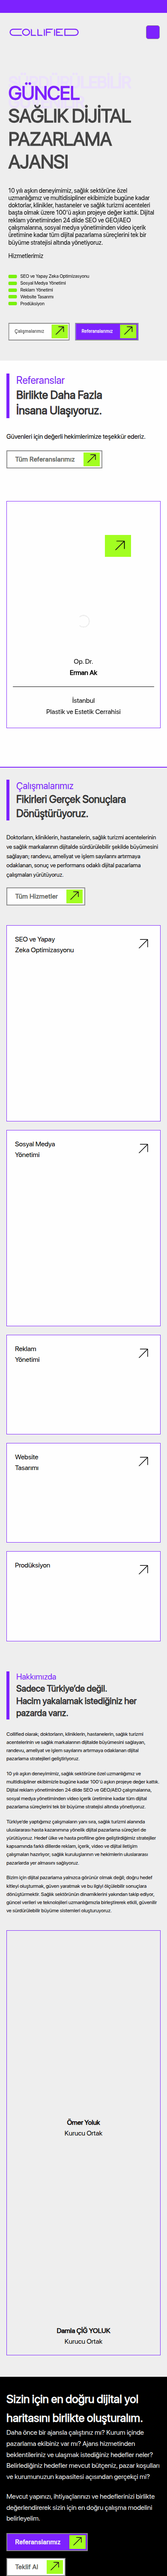
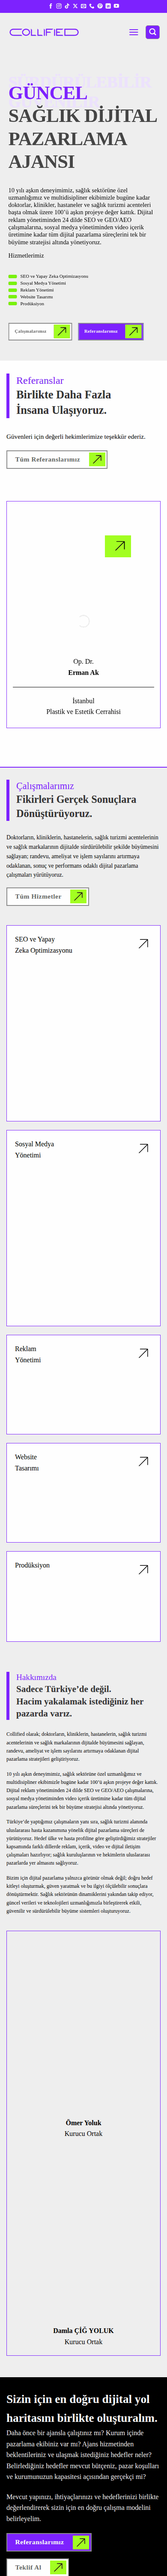
Rakipler: Collified ve Proji SS, yeni ajans notları (ara kayıt)
Claude-Session: https://claude.ai/code/session_014vX4uSoxRs7RX5MTd8Gf4r

diff --git a/ajans/arastirma/rakipler/ajanslar/webtures.md b/ajans/arastirma/rakipler/ajanslar/webtures.md
@@ -1,0 +1,90 @@
+# Webtures
+
+- **Ülke / şehir:** Türkiye / İstanbul (Esentepe Mah. Milangaz Cad. No:77 A2 Blok Kat:32-33 D:219, Kartal) + Birleşik Krallık / Londra (494a Fulham Road, SW6 5NH; Webtures Ltd, şirket no. 11948574)
+- **Web:** https://www.webtures.com/ (varsayılan sürüm İngilizce; Türkçe sürüm https://www.webtures.com/tr/)
+- **Instagram:** https://www.instagram.com/webtures/
+- **Diğer sosyal:** Facebook: https://www.facebook.com/webtures/ | LinkedIn: https://www.linkedin.com/company/webtures/ | TikTok: bulunamadı | YouTube: https://www.youtube.com/@Webturescom | X: https://x.com/webtures | Spotify (Webtures Talks podcast): https://open.spotify.com/show/0p47rU8DXS3pXaBYSxBBrg | LinkedIn bülteni "Pazarlama Trendi"
+- **Kuruluş / ekip büyüklüğü (biliniyorsa):** 2011, kurucu/CEO Kaan Gülten (kaynak: https://www.webtures.com/about-us/). Sayfa JSON-LD verisinde `numberOfEmployees: 34`. Aynı sitede "120+ Active Brands", "15yrs Operations", "6 cont. Reach"; referanslar sayfasında "5,000+ Brands we have worked with". Teknoloji platformu "Brantial" Webtures Ltd tarafından işletiliyor.
+- **Hedef müşteri:** Kurumsal/enterprise markalar (banka, sigorta, hastane zinciri, ev aletleri, otomotiv yan sanayi, mücevher, e-ticaret). Sebep: hero alt metninde "We make enterprise brands the preferred choice", logo şeridi İş Bankası, Garanti BBVA, Acıbadem, Memorial, Electrolux, Pınar, Akçansa, Çelebi, Anadolu Sigorta; JSON-LD'de `priceRange: "$$$"`. Restoran/klinik/butik gibi küçük işletmeye yönelik sayfa ya da fiyat yok.
+
+## Hizmetler
+- Generative Engine Optimization (GEO): ChatGPT, Gemini, Perplexity, Google AI Overviews yanıtlarında görünürlük
+- SI-First SEO (klasik SEO'yu yapay zeka cevap motorlarının okuyabileceği yapıya çevirme; schema, entity, passage-level içerik)
+- Visibility Intelligence (SI + klasik arama görünürlük ölçümü, rakip kıyası)
+- SI Agent Readiness (ücretsiz analiz; nav'da "189-point checklist")
+- Citation Optimization, Online Reputation Management, SI Visibility for Local Business
+- Agentic Commerce Readiness (ürün verisi, feed, sipariş akışı)
+- SI & Agentic Analytics, Google Analytics 4, Analytics Architecture (GA4 + sGTM + BigQuery + Looker)
+- Kurumsal SI Eğitimi (rol bazlı ekip eğitimi, 90 gün ölçüm)
+- Google Ads yönetimi (Search, Performance Max, Shopping), Meta & TikTok reklamları, ChatGPT Ads yönetimi, Generative Engine Advertising
+- Sektör raporları (perakende, üretim, finans, seyahat, sağlık, enerji vb.), kitaplar, podcast, Webtures Akademi (ücretsiz eğitim), staj kampı
+
+## Paketler ve fiyatlar
+| Paket | Kapsam | Fiyat | Not |
+|---|---|---|---|
+| Hizmetlerin tamamı | Her hizmette 4 "deliverable" listesi (ör. GEO: Entity & Knowledge Graph map, passage-level rewrite, haftalık SI citation tracker, LLM-ready schema) | Fiyat açıklanmıyor; teklif/formla | kaynak: https://www.webtures.com/ ("Explore all services" bölümü) |
+| Ücretsiz SI görünürlük analizi | "Your readiness score in 60 seconds" | Ücretsiz | kaynak: ana sayfa hero CTA "Analysis in 60 Seconds" |
+| Strateji görüşmesi | "Free 30-minute call", "30 minutes · free · no commitment" | Ücretsiz | kaynak: ana sayfa alt CTA "Book a strategy call" |
+
+Fiyat hiçbir sayfada yok (ana sayfa, TR sürüm, /contact/ ve /about-us/ tarandı; tek ipucu JSON-LD `priceRange: "$$$"`). Teklif yöntemi: https://www.webtures.com/contact/ formu (Name, Phone, Email, Website, Message + KVKK onay kutusu), telefon +90 216 599 04 95 (hafta içi 10:00-18:00), hello@webtures.com ("Reply within 1-2 business days"), ücretsiz 30 dk strateji görüşmesi ve ücretsiz analiz aracı.
+
+## Site yapısı (ana sayfa, yukarıdan aşağıya sırayla)
+SS `ss/webtures-web.png` ilk 6000 px'te kesilmiş (1440x6000); 1-8 SS'den doğrulandı, 9 ve sonrası kaynak HTML'den (curl) alındı.
+1. Hero: başlık "Be the brand people and SI prefer." ("people and SI" turuncu), alt metin "Your customers now ask ChatGPT before they search Google, and if your brand is not in the answer you are not an option. We make enterprise brands the preferred choice across search, ads and SI answers."; sağda iki metrik kartı ("400%+ Growth in SI-sourced traffic, Blue Diamond: last 3 months versus the same period a year earlier" ve "5x Electrolux: citations across generative SI answers"); CTA "Analysis in 60 Seconds" (turuncu buton); görsel türü: koyu tema, mini grafik/veri kartları, fotoğraf yok
+2. "Brands growing with us" logo şeridi (İş Bankası, Garanti BBVA, Acıbadem, Akçansa, Çelebi, Anadolu Sigorta, Memorial, Electrolux, Pınar, Paket Taxi, İnci Akü, Kiğılı), kayan
+3. "We read the market with data." — 7 sektör raporu kartı (Agentic Commerce Readiness Report, SI in retail and e-commerce, manufacturing, finance and banking, travel and hospitality, healthcare, energy), "Human / Machine" geçiş anahtarı, "All reports" linki
+4. "Data-driven digital growth stories." — 5 vaka kartı: Blue Diamond ("SI-Sourced Traffic Up 400.8%"), İş Bankası ("1,860% Growth In New Users From SI Platforms"), Electrolux ("SI Citations Up 428.9%"), Memorial ("SI Search Citation Visibility Went From Zero To 10,500"), Anadolu Sigorta ("SI Citations Up 100.5%"); "Explore the case", "More case studies"
+5. "Benefit from end-to-end digital marketing expertise" — 6 kartlı yatay slider: AEO & SI Visibility Audit, GEO & SI Search Strategy, SI Content Engine, Paid Visibility Layer, Authority & Expansion, Continuous Optimization
+6. "Outcome-focused growth." — 4 sayaç: 145%+ organik nitelikli trafik büyümesi, 85%+ ilk sayfa görünürlüğü, 75%+ arama kaynaklı dönüşüm artışı, 3x görünürlük genişlemesi
+7. "What professionals say after working with us." — 5 yorum (Mayi Tuz, Ersa Saat, Tekne Kirala, CaddeYıldız Mobilya, NPİSTANBUL Beyin Hastanesi) + sağda sonuç listesi (+42.000, %61, +450, %185, %1.245)
+8. "We are here with our digital ecosystem experience." — 12 logoluk grid
+9. (HTML) "We design the right growth program for your brand." — 15yrs / 120+ Active Brands / 6 cont.; sekmeli hizmet önizlemesi (Generative SI, Marketing, Performance, Data & Analytics) ve "Explore all services"
+10. (HTML) "Webtures Insights" — 8 makale kartı (ChatGPT Ads, agentic commerce, Merchant Center AI insights vb.), "View all"
+11. (HTML) Kapanış CTA: "Let's decide your brand's next move together." — "Talk through your goals in a free 30-minute call…", "Book a strategy call", "Free SI visibility analysis"
+12. (HTML) Footer: About/Career/Education/Sustainability/Partnerships (Google Premier Partner, AWS, Meta, LinkedIn, Yandex, Anthropic, OpenAI, xAI), 2 ofis adresi, telefon, e-posta, ISO 9001 sertifikası, bülten, KVKK/Gizlilik linkleri, çerez bandı
+- **Dil / ton:** Kurumsal, iddialı, veri/rapor odaklı; İngilizce öncelikli (Türkçe `/tr/` ayrı), "yapay zeka" yerine her yerde "SI" ("Super Intelligence" / TR: "süper zekâ") terimi; jargon yoğun (GEO, AEO, agentic commerce, citation); "Siz" dili Türkçe sürümde
+- **CTA metinleri:** "Analysis in 60 Seconds", "Get in touch", "Book a strategy call", "Explore the case", "Explore all services", "Free SI visibility analysis", "Start the analysis"
+- **İletişim yöntemi:** WhatsApp yok (HTML'de whatsapp/wa.me geçmiyor); /contact/ formu 5 alan + onay kutusu (Name*, Phone, Email*, Website, Message* + KVKK onayı); telefon +90 216 599 04 95; e-posta hello@webtures.com; "Book a strategy call" da /contact/ sayfasına gidiyor, takvim aracı (Calendly vb.) yok
+- **Teknoloji ipuçları:** Astro (HTML'de `data-astro-cid-*`, `/_astro/` CSS dosyaları), shadcn/Tailwind tarzı utility sınıfları (`data-slot="button"`), Geist font, görseller `storage.webtures.com`; GTM/GA etiketi görünmüyor, OpenAI `oaiq` piksel script'i var; `?format=md` ile makine okunur markdown sürümü ve "Human/Machine" anahtarı; JSON-LD (ProfessionalService, Service, Offer); açık/koyu tema; çerez bandı "yalnızca fonksiyonel çerez"
+- **Güven unsurları:** 12 büyük kurum logosu, 5 isimli yorum (isim + firma), vaka sayfaları (/references/blue-diamond/, /is-bankasi/, /electrolux/, /memorial/, /anadolu-sigorta/ vb.), sayılar (145%+, 120+ aktif marka, 15 yıl, 5.000+ marka), partner rozetleri (Google Premier Partner, Meta Business Partner, LinkedIn, AWS, Yandex), ISO 9001, Londra tescilli şirket no. (Companies House linki)
+
+## Instagram
+- **Takipçi:** 29.755 | **Gönderi:** 2.699 | **Takip:** bulunamadı (embed ucu vermiyor)
+- **Bio metni:** bulunamadı (embed ucunda bio yok; profil adı "Webtures", doğrulanmış hesap değil)
+- **Link-in-bio:** bulunamadı
+- **Post türleri (son 12-15 gönderi):** embed 15 kayıt döndürdü: 13 görsel + 2 carousel, reel yok. Aynı shortcode önekini paylaşan kayıtlar (DdtLk…, DdjEJ…, DdYw5…) carousel slaytları gibi görünüyor; yani gerçek gönderi sayısı yaklaşık 4-5. Tamamı metin/infografik tasarım kartı, koyu-turuncu marka rengi. İçerik: yapay zeka arama/GEO eğitimi ("Google, AI aramanın perde arkasında nasıl çalıştığını değiştirebilecek bir sistemi sessizce yayınladı", "AI sizi seçiyor ya da eliyor, %75 marka güveni", "AI ajanları markaları 4 boyutta değerlendiriyor", "Arama Optimizasyonunda Doğrular ve Yanlışlar"). Müşteri sonucu, önce/sonra, ekip, teklif/fiyat içeriği yok.
+- **Öne çıkan gönderi örnekleri:** https://www.instagram.com/p/DdtLlDqAtuN/ — carousel: "AI ajanınız bir ürün araştırıyor… marka güveni %75" (Hexagon'un 15.000 AI citation analizine dayandırılmış); https://www.instagram.com/p/DdjEK9BAiQI/ — carousel: ChatGPT/Gemini/Claude'un neden belli siteleri seçtiği; https://www.instagram.com/p/Dd3dbFVgpPw/ — tek görsel: Google AI aramasının 20 kat hızlanması (teknik kod bloğu görseli)
+- **Paylaşım sıklığı / tutarlılık:** Tarih embed'de yok (shortcode tarih vermez); son 15 kayıt aynı konu çizgisinde (AI/GEO), düzenli ve tutarlı bir içerik hattı. 2.699 gönderiyle bu dört ajansın en büyük/aktif hesabı. Ağır B2B eğitim içeriği; takipçilerin önemli kısmı KOBİ sahibi değil pazarlama profesyoneli olabilir (tahmin).
+
+## Portföy örnekleri
+- https://www.webtures.com/references/blue-diamond/ — Blue Diamond (mücevher, e-ticaret): GEO programı, SI platformlarından gelen kullanıcı +%400,8 (3.756), yeni kullanıcı +%416,01 (3.029), GA4 ile ölçüm
+- https://www.webtures.com/references/is-bankasi/ — Türkiye İş Bankası (bankacılık): SI platformlarından yeni kullanıcı +%1.860
+- https://www.webtures.com/references/electrolux/ — Electrolux (beyaz eşya): SI citation +%428,9 (son 6 ay / önceki 6 ay)
+- https://www.webtures.com/references/memorial/ — Memorial (sağlık): SI arama citation görünürlüğü 0'dan 10.500'e
+- https://www.webtures.com/references/anadolu-sigorta/ — Anadolu Sigorta (sigorta): SI citation +%100,5 (6 ayda)
+- https://www.webtures.com/references/mayi-tuz/, /ersa-saat/, /tekne-kirala/, /caddeyildiz-mobilya/, /npistanbul/ — SEO/reklam müşterileri (tuz, saat, tekne kiralama, mobilya, beyin hastanesi); CaddeYıldız 2014'ten beri müşteri
+- https://www.webtures.com/our-references/ — tüm referanslar, sektör filtreli (E-commerce & Retail, Health, Finance & Insurance, Industry & Construction, Technology & B2B, Food & Beverage)
+
+## İyi yaptıkları (3+)
+1. Her vakada somut, ölçülmüş başlık sonucu (+%400,8, +%1.860, 0'dan 10.500) ve "önceki dönem / başlangıç noktası / yaklaşım / fark" yapısı; hero'ya da bu sayılar taşınmış.
+2. Ücretsiz "60 saniyede analiz" (SI Agent Readiness) ve ücretsiz 30 dakikalık strateji görüşmesi: düşük sürtünmeli lead mıknatısı, "no commitment" vurgusu.
+3. Sektör raporları (95 dk'ya kadar uzun okuma), kitaplar, podcast, akademi: otorite/içerik pazarlaması; Instagram'da aynı bilgiyi carousel olarak parçalıyor.
+4. Büyük marka logoları + 15 yıllık geçmiş + Google Premier Partner, ISO 9001, Londra şirket kaydı: kurumsal güven katmanı çok güçlü.
+5. Yeni bir hizmet alanını (GEO / yapay zeka görünürlüğü / ChatGPT Ads) erken konumlandırmış; hizmet sayfaları "deliverable 01-04" listesiyle ne alınacağını somutlaştırıyor.
+6. Teknik olarak hızlı ve modern site (Astro, açık/koyu tema, makine okunur md sürümü).
+
+## Kötü yaptıkları / açıkları (3+)
+1. Tüm sitede "AI" yerine "SI" (super intelligence) terimi; kimse arama motorunda "SI visibility" yazmıyor, okuyucu kafası karışıyor. Instagram'da ise "AI/Yapay Zeka" kullanıyorlar, marka dili tutarsız.
+2. Fiyat ve paket yok; yalnızca "$$$" JSON-LD ipucu. Küçük ve orta işletme için net bir giriş ürünü yok, kurumsal bütçeye göre konumlanmış.
+3. Ana sayfa varsayılan olarak İngilizce (Türkçe ayrı `/tr/`); Türk yerel işletme için ilk izlenim yabancı, hizmet dili jargon dolu (GEO, AEO, agentic, citation, entity).
+4. WhatsApp yok, tek iletişim yolu /contact/ formu (5 alan + KVKK onayı) ve "1-2 iş günü" yanıt vaadi; hızlı cevap bekleyen KOBİ için yavaş.
+5. Sayılar tutarsız: SI Agent Readiness nav'da "189-point checklist", hizmet önizlemesinde "72-checkpoint"; "5,000+ Brands" ile "120+ Active Brands"; "Memorial: Zero To 10,500" gibi başlangıcı belirsiz iddialar.
+6. Instagram'da hiç reel/video, ekip, müşteri başarı hikâyesi veya teklif içeriği yok; yalnızca koyu-turuncu metin kartları, 29,7K takipçiye rağmen müşteri kazanımını gösteren içerik görünmüyor.
+
+## Ekran görüntüleri
+- Web: `ss/webtures-web.png` (1440x6000, ilk 6000 px; sayfa devamı SS dışında) | Mobil: `ss/webtures-mobil.png` | Instagram: `ss/webtures-instagram.png` (embed'den üretilmiş kart, gerçek profil görüntüsü değil)
+
+## Bizim için notlar
+- Çalınacak fikir: Ücretsiz, hızlı bir "analiz aracı" (60 saniyede skor) ana CTA olarak; bizde "Instagram/Google profil skoru" ya da "WhatsApp'ta 60 saniyede site analizi" olabilir. Vaka kartında tek rakam + "önceki dönem" kıyası.
+- Çalınacak fikir: Her hizmette "deliverable 01-04" listesi (müşteri tam olarak ne alacağını görüyor); "Human/Machine" gibi makine okunur sürüm (?format=md) ile yapay zeka aramasında görünürlük sinyali; carousel ile uzun rapor içeriğini parçalama.
+- Kaçınılacak: "SI" gibi uydurma/yerleşmemiş terimler, İngilizce varsayılan ana sayfa, fiyatsız ve WhatsApp'sız tek form akışı; müşteri sonucu göstermeyen sadece eğitim içerikli Instagram. Küçük işletme hedefliyorsak Webtures'ın boş bıraktığı alan (net TL paket + WhatsApp) bizim fırsatımız.
